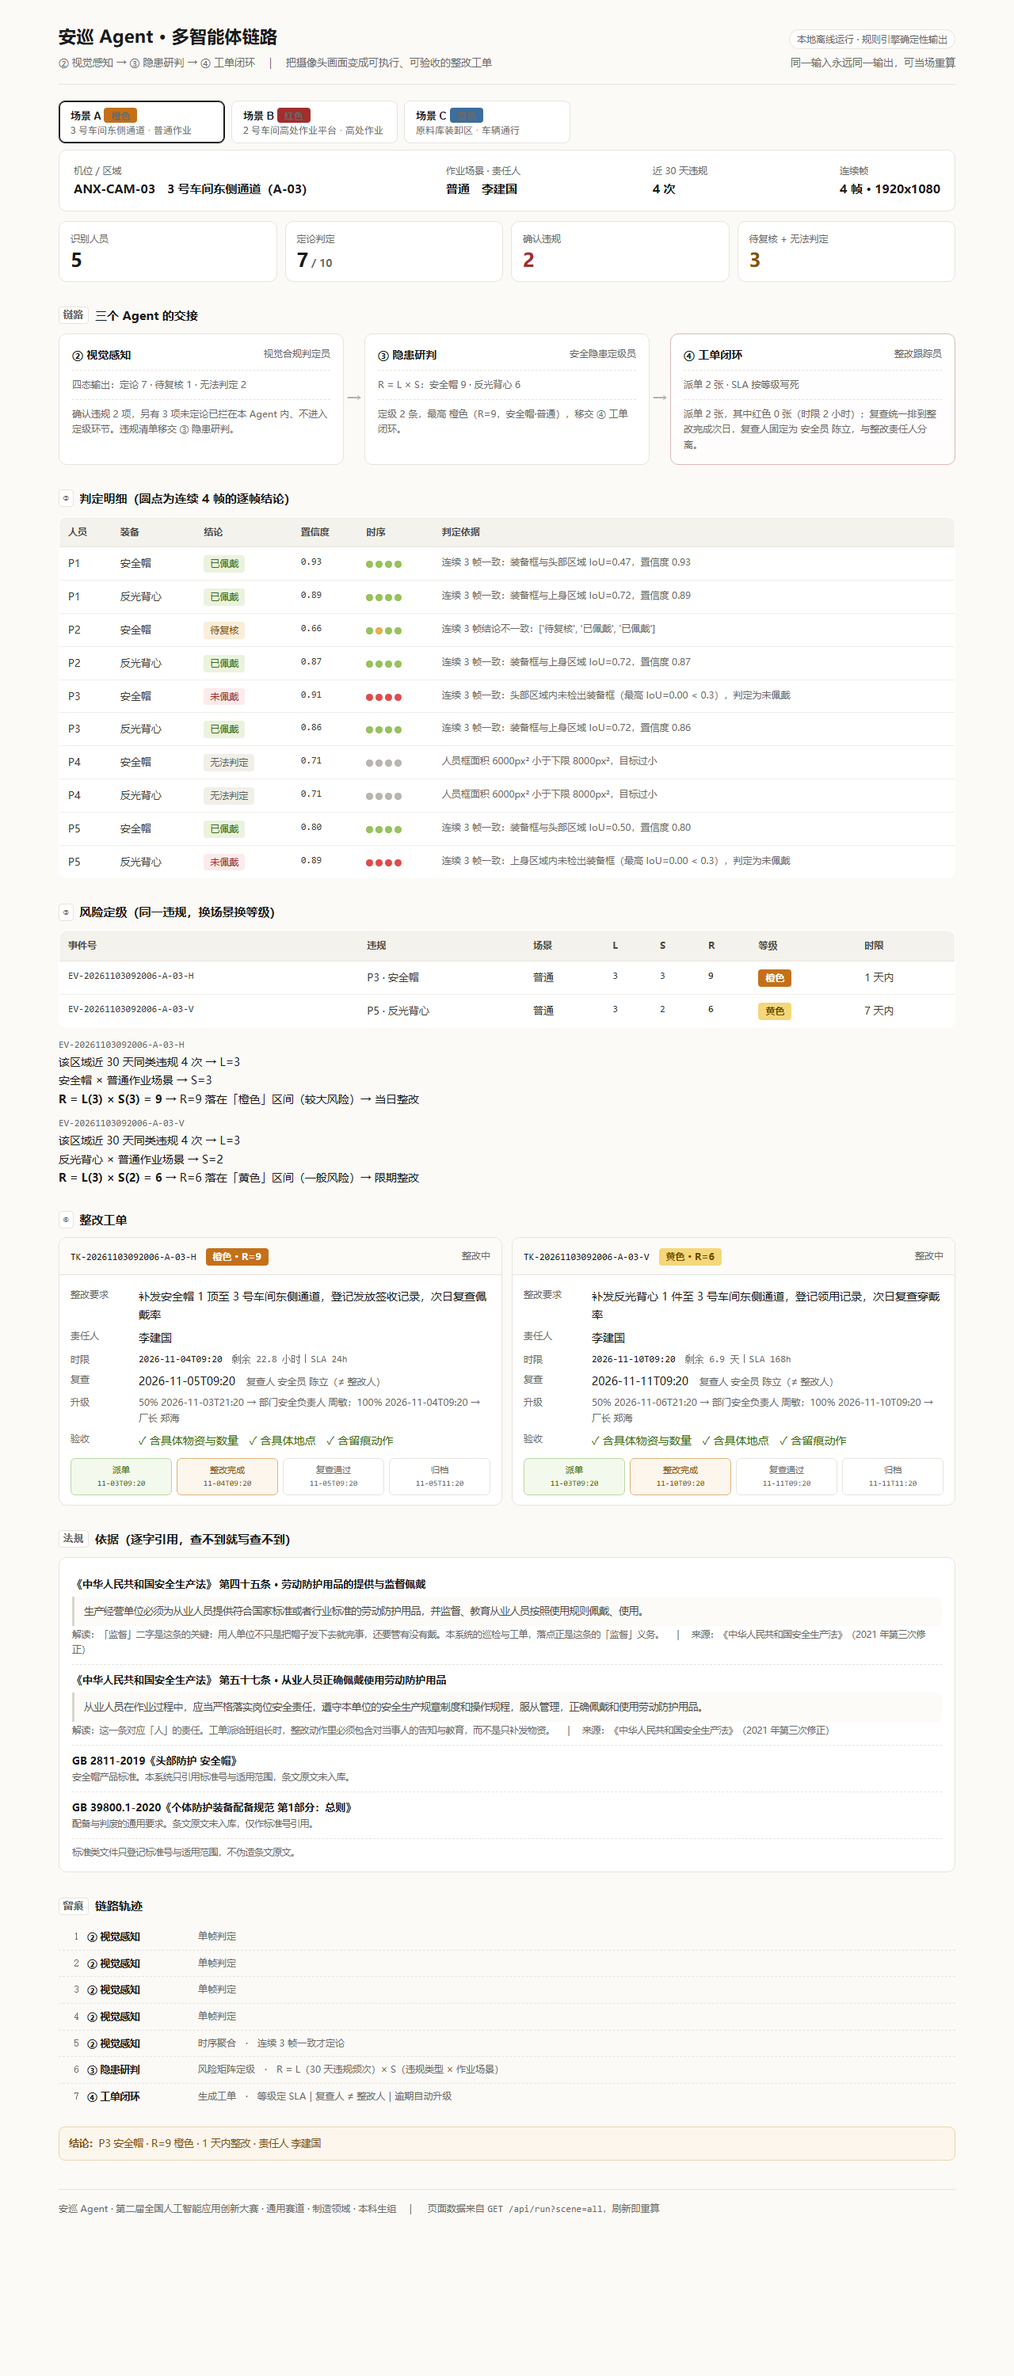
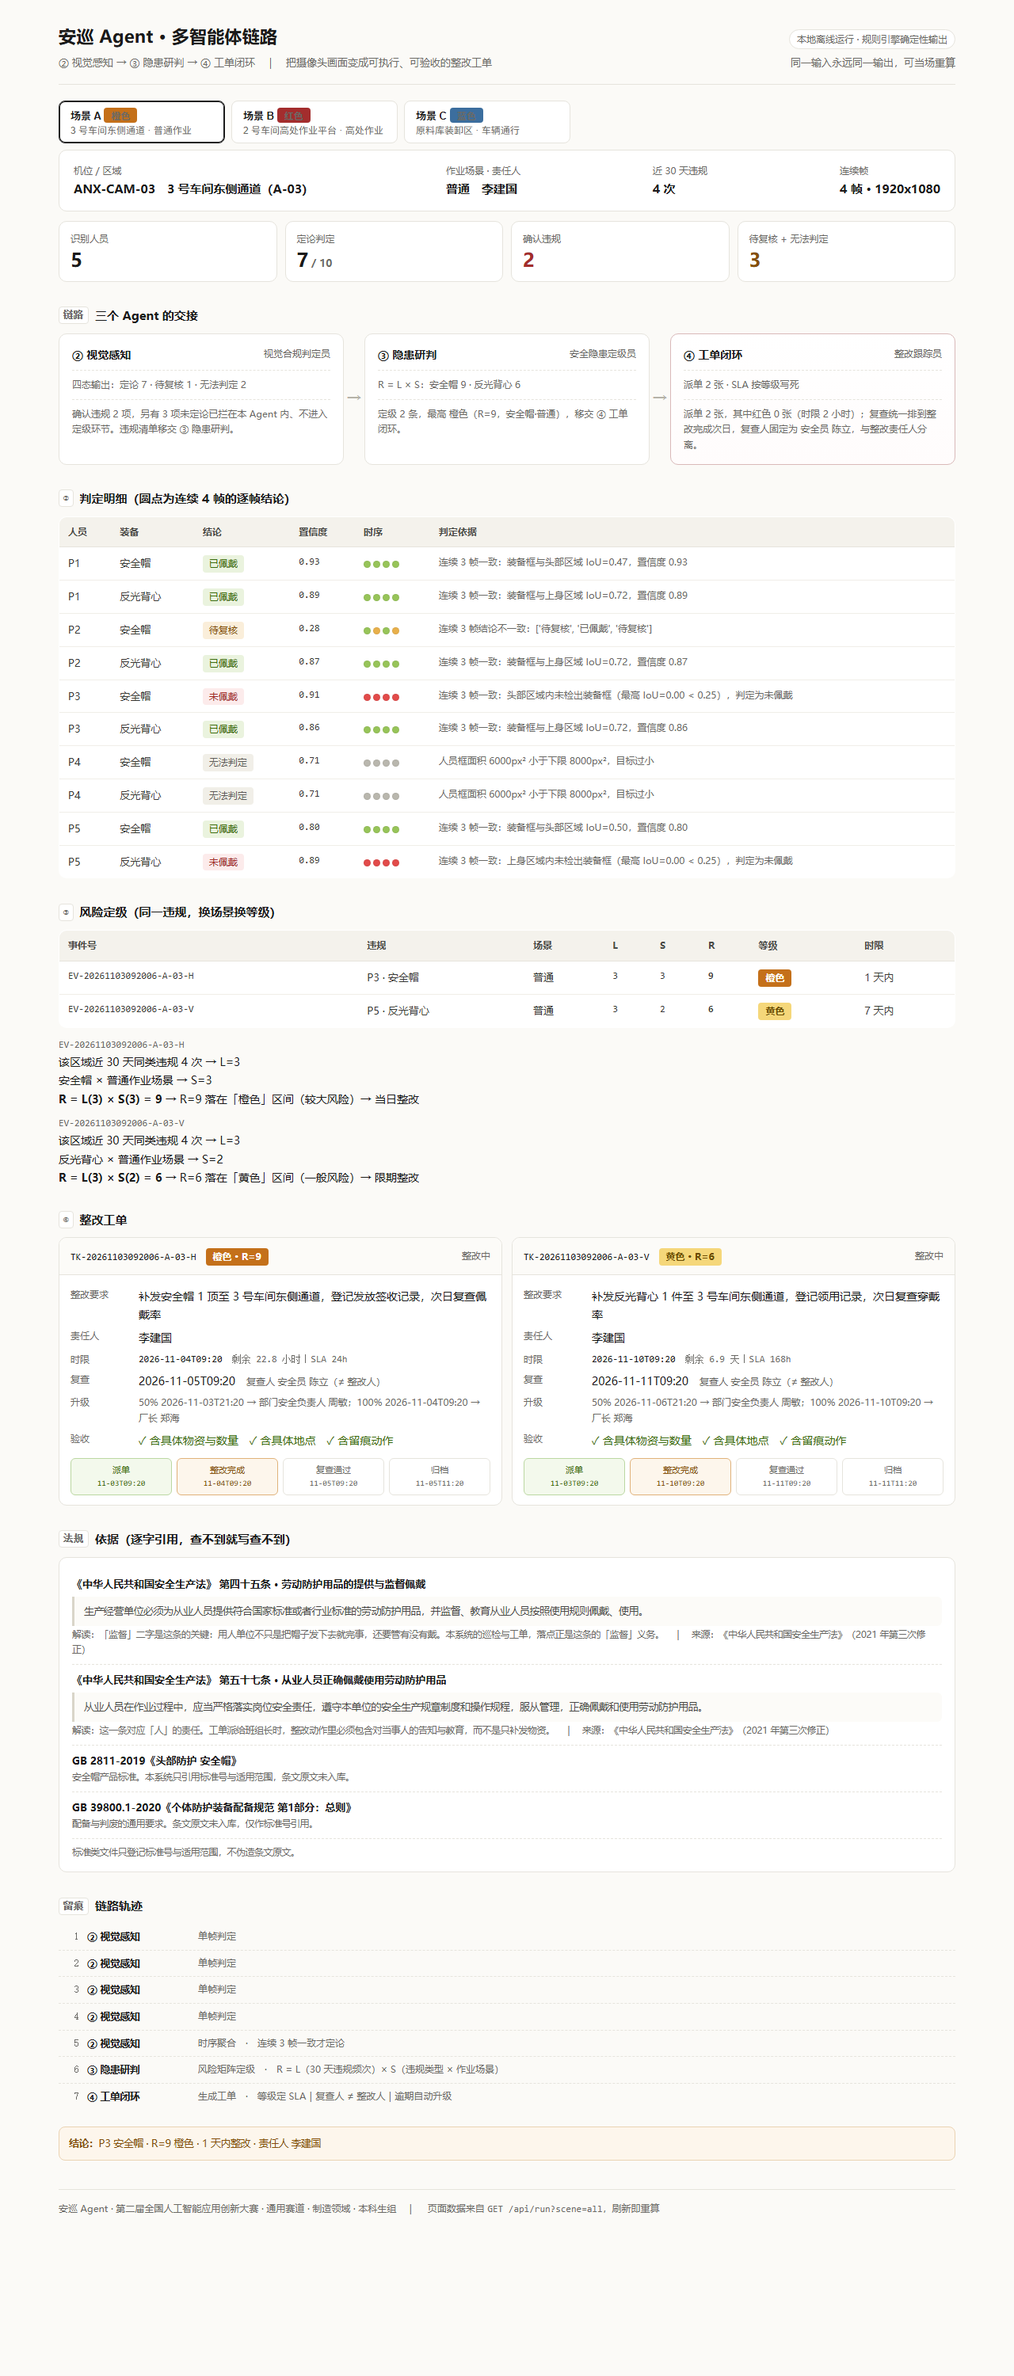
fix: 判定阈值统一到实测口径 0.30/0.20（P4-1）
- rules_engine: CONF_FINAL 0.60→0.30、CONF_REVIEW 0.40→0.20、
  HELMET_IOU_MIN 0.30→0.25、MIN_ASPECT 1.20→0.90，新增 MAX_EQUIP_RATIO 3.0
- demo/scenarios: P2 帽置信度改到 0.25，四态演示保留（待复核落在 [0.20,0.30)）
- 文档同步：README / 03 技术架构判定树与常量表 / 04 / 06 / 提示词库
- 重截三张界面图，数字与代码一致

与 techline 实测配置对齐，避免同一顶帽子两种结论。

diff --git a/src/anxun/rules_engine.py b/src/anxun/rules_engine.py
@@ -24,15 +24,19 @@ from typing import Sequence
 # 一、阈值配置
 # ============================================================
 
-CONF_FINAL = 0.60          # >= 此值：直接下结论
-CONF_REVIEW = 0.40         # [此值, CONF_FINAL)：转人工复核
+# 阈值口径：与实测线（techline-v2.0.0）统一，2026-11-02 由队长确认
+# 两套阈值并行的后果是「同一个 0.52 的帽子，演示判待复核、评测判已佩戴」，
+# 答辩现场两边一对照就穿帮。这里以「能当场复现的那套」为准。
+CONF_FINAL = 0.30          # >= 此值：直接下结论
+CONF_REVIEW = 0.20         # [此值, CONF_FINAL)：转人工复核
                            # <  CONF_REVIEW ：丢弃，不输出
 
-HELMET_IOU_MIN = 0.30      # 安全帽框与头部区域的 IoU 阈值
+HELMET_IOU_MIN = 0.25      # 安全帽框与头部区域的 IoU 阈值
 HEAD_REGION_RATIO = 0.30   # 头部区域 = 人员框上部 30%
 
 MIN_PERSON_AREA = 8000.0   # 人员框面积下限（像素^2），小于此值视为过远/过小
-MIN_ASPECT = 0.90          # 人员框高宽比下限，小于此值视为半身/蹲姿，无法判定（v1.2.0 与技术线 conservative 口径对齐）
+MIN_ASPECT = 0.90          # 人员框高宽比下限，小于此值视为半身/蹲姿，无法判定
+MAX_EQUIP_RATIO = 3.0      # 装备框面积 / 比对区域面积 的上限，超了多半是关联错框
 
 # 风险矩阵：30 天违规次数 -> 可能性 L
 # (次数上限, L 值)，超出最后一档取 4
@@ -176,6 +180,10 @@ def judge_equipment(person: Box, idx: int, boxes: Sequence[Box],
         v = iou(region, b)
         if v > best_iou:
             best, best_iou = b, v
+
+    # 装备框比比对区域大出数倍，基本是「把远处的帽子关联到近处的人」这类错配
+    if best is not None and region.area > 0 and best.area > region.area * MAX_EQUIP_RATIO:
+        best, best_iou = None, 0.0
 
     # --- 4. 结论 ---
     if best is not None and best_iou >= HELMET_IOU_MIN:

diff --git a/src/anxun/agents/scenarios.py b/src/anxun/agents/scenarios.py
@@ -1,4 +1,4 @@
-# -*- coding: utf-8 -*-
+# -*- coding: utf-8 -*-
 """
 演示场景数据
 ============
@@ -10,7 +10,7 @@
 | 人员 | 设计 | 想证明什么 |
 |---|---|---|
 | P1 | 帽 0.93、背心 0.89 | 正常放行，不制造噪音 |
-| P2 | 帽置信度 0.71 / 0.52 / 0.68 / 0.66 抖动 | 时序聚合：单帧会误判，连续帧才定论 |
+| P2 | 帽置信度 0.35 / 0.25 / 0.32 / 0.28 抖动 | 时序聚合：单帧会误判，连续帧才定论 |
 | P3 | 无安全帽 | 违规主体，进定级 |
 | P4 | 面积 6000px² / 遮挡 | 两道失效保护：小目标、遮挡，都不许报违规 |
 | P5 | 有帽、无背心 | 第二个违规类型，验证 S 值随类型变化 |
@@ -36,8 +36,8 @@ REGIONS: dict[str, Region] = {
     "C": Region("C-07", "原料库装卸区", "车辆", "赵明", violation_30d=1),
 }
 
-# P2 安全帽置信度逐帧抖动：0.71 定论 → 0.52 灰区 → 回到定论
-P2_HELMET = (0.71, 0.52, 0.68, 0.66)
+# P2 安全帽置信度逐帧抖动：0.35 定论 → 0.25 灰区 → 0.32 → 0.28 灰区
+P2_HELMET = (0.35, 0.25, 0.32, 0.28)
 
 
 def _persons(kind: str) -> list[Box]:

diff --git a/src/anxun/demo.py b/src/anxun/demo.py
@@ -1,4 +1,4 @@
-# -*- coding: utf-8 -*-
+# -*- coding: utf-8 -*-
 """
 安巡 Agent · 端到端演示
 =======================
@@ -43,7 +43,7 @@ def make_boxes() -> list[Box]:
     四个人员 + 部分装备框。
 
     人1：戴帽且高置信度       -> 已佩戴
-    人2：有帽但置信度中等     -> 待复核（演示复核通道）
+    人2：有帽但置信度 0.25     -> 待复核（落在 0.20–0.30 复核区间）
     人3：无帽                 -> 未佩戴（本演示的违规主体）
     人4：目标过小（远处）     -> 无法判定（演示失效保护）
     """
@@ -56,7 +56,7 @@ def make_boxes() -> list[Box]:
 
         # --- 安全帽 ---
         Box("helmet", 0.93, 320, 290, 520, 410),      # 人1 的帽
-        Box("helmet", 0.52, 720, 310, 920, 430),      # 人2 的帽（低置信）
+        Box("helmet", 0.25, 720, 310, 920, 430),      # 人2 的帽（0.25 落在复核区间 0.20–0.30）
 
         # --- 反光背心 ---
         Box("vest", 0.89, 310, 470, 530, 760),        # 人1 背心

diff --git a/README.md b/README.md
@@ -127,7 +127,7 @@ python demo.py
 | 人员 | 情况 | 判定 | 说明 |
 |---|---|---|---|
 | P1 | 安全帽置信度 0.93，IoU 达标 | **已佩戴** | 正常放行 |
-| P2 | 安全帽置信度 0.52 | **待复核** | 落在 [0.40, 0.60) 灰区，转人工 |
+| P2 | 安全帽置信度 0.25 | **待复核** | 落在 [0.20, 0.30) 灰区，转人工 |
 | P3 | 无安全帽 | **未佩戴** | 确认违规，进入定级 |
 | P4 | 人员框面积 6000 px² | **无法判定** | 小于 8000 px² 门槛，直接拦截不报违规 |
 
@@ -190,19 +190,15 @@ uvicorn infer_api:app --host 0.0.0.0 --port 8000
 | 规则引擎 | ✅ 代码完成 | `rules_engine.py` 已跑通四态 + 风险矩阵 + 工单 |
 | 端到端演示 | ✅ 代码完成 | `demo.py` 输出报告 / json / html |
 | 推理服务封装 | ✅ 代码完成 | `infer_api.py` 三接口就绪 |
-| 数据集 | ✅ 1900 张 | 3 源 5 集公开数据集（CC BY 4.0 / MIT）；**自采 0 张** |
-| 模型 | ✅ 三模型串联 | 人体 + 安全帽（第三方权重）+ 反光背心（自训），含 ONNX |
-| **指标实测** | 🟡 已实测，**三项未达标** | mAP@0.5 **0.681**（目标 0.85）· 误报 **5.10%**（✅ ≤10%）· 漏报 **22.58%**（目标 5%）· 单帧 22.9ms(GPU) / 72.7ms(CPU) |
-| Agent 本地三智能体 | ✅ 可跑 | `run_agents.py` 离线出网页，纯标准库 |
-| **Agent 公网链接** | 🔴 **未完成** | 官方硬要求，缺此项按零分处理 |
-| **提示词示例** | 🔴 **未完成** | 官方要求 ≥3 组，PPT 第 19 页依赖它 |
-| PPT 20 页 | 🟡 大纲 + 技术页 4 页 | 技术页成品在 `techline-v2.0.0/docs/技术页_10-13.html` |
-| 6 分钟视频 | 🟡 脚本完成，素材未拍 | 分镜脚本已写；视频素材 0 段 |
-| 报名 | 🔴 待确认 | 本校在报名系统下拉中，走三级赛制 |
+| **数据集** | 🔴 未开始 | 公开集选型 + 自采 300 张 |
+| **模型训练** | 🔴 未开始 | 有 `train_yolo.py`，无 `best.pt` |
+| **指标实测** | 🔴 待实测 | mAP / 误报率 / 漏报率 / 单帧耗时全部为空 |
+| Agent 平台搭建 | 🟡 本地版已跑通 | `run_agents.py` 三 Agent 离线可跑（含网页）；扣子侧仍待配置 |
+| PPT 20 页 | 🟡 大纲完成 | 逐页大纲在 `docs/05-PPT与视频.md` |
+| 6 分钟视频 | 🟡 脚本完成 | 分镜脚本已写 |
+| 报名 | 🔴 待办 | 本校在报名系统下拉中，走三级赛制 |
 
-> ⚠ **技术线交付（数据/模型/指标/部署/技术页）在 `techline-v2.0.0/`，由队友维护，原始仓库为 [anxun-agent-techline](https://github.com/Euphoria-tender/anxun-agent-techline)。该目录的判定阈值与本仓库 `src/anxun/rules_engine.py` 不同，详见 [`docs/11-项目盘点.md`](docs/11-项目盘点.md) P4-1。**
-
-完整任务分解见 [`TODO.md`](TODO.md)，剩余问题与风险见 [`docs/11-项目盘点.md`](docs/11-项目盘点.md)。
+完整任务分解见 [`TODO.md`](TODO.md)。
 
 ---
 
@@ -231,7 +227,7 @@ uvicorn infer_api:app --host 0.0.0.0 --port 8000
 
 | 保护 | 规则 | 防什么 |
 |---|---|---|
-| 置信度三档 | ≥0.60 定论 / [0.40,0.60) 转人工 / <0.40 丢弃 | 低置信度直接下结论 |
+| 置信度三档 | ≥0.30 定论 / [0.20,0.30) 转人工 / <0.20 丢弃 | 低置信度直接下结论 |
 | 时序聚合 | 连续 3 帧判定一致才定论 | 单帧抖动、偶发遮挡 |
 | 小目标拦截 | 人员框 < 8000 px² → 「无法判定」 | 远处模糊目标被误判违规 |
 
@@ -277,7 +273,6 @@ uvicorn infer_api:app --host 0.0.0.0 --port 8000
 | 报名怎么填、资格怎么确认 | [`docs/08-报名事项.md`](docs/08-报名事项.md) |
 | 落选的另外两个方案 | [`docs/09-备选方案.md`](docs/09-备选方案.md) |
 | **明天上山要拍什么**（负责材料的人必看） | [`docs/10-素材拍摄清单.md`](docs/10-素材拍摄清单.md) |
-| **还剩什么没做、哪里有坑**（每天开工前看） | [`docs/11-项目盘点.md`](docs/11-项目盘点.md) |
 | 五个 Agent 的完整提示词 | [`docs/安巡Agent_提示词库.md`](docs/安巡Agent_提示词库.md) |
 | 带排版的成品文档 | [`assets/html/`](assets/html/) |
 

diff --git a/docs/03-技术架构.md b/docs/03-技术架构.md
@@ -78,9 +78,9 @@
 
 | 状态 | 触发条件 | 后续动作 |
 |---|---|---|
-| **已佩戴** | 头部区域检出装备框，IoU ≥ 0.30 且置信度 ≥ 0.60 | 放行，记录 |
+| **已佩戴** | 头部区域检出装备框，IoU ≥ 0.25 且置信度 ≥ 0.30 | 放行，记录 |
 | **未佩戴** | 头部区域未检出装备框（最高 IoU < 0.30），且人员框质量合格 | 进入风险定级 |
-| **待复核** | IoU 成立但置信度落在 [0.40, 0.60) | 转人工，不自动定级 |
+| **待复核** | IoU 成立但置信度落在 [0.20, 0.30) | 转人工，不自动定级 |
 | **无法判定** | 人员框面积 < 8000 px² 或高宽比 < 1.20 | 直接拦截，不输出违规 |
 
 > 关键设计：**「无法判定」不是「未佩戴」。** 宁可说不知道，也不要猜。
@@ -92,7 +92,7 @@
 ```
 1. 取人员框
    ├─ 面积 < MIN_PERSON_AREA (8000 px²)  → 无法判定（目标过小）
-   └─ 高宽比 < MIN_ASPECT (1.20)         → 无法判定（半身/蹲姿）
+   └─ 高宽比 < MIN_ASPECT (0.90)         → 无法判定（半身/蹲姿）
 
 2. 划头部区域
    头部区域 = 人员框上部 HEAD_REGION_RATIO (30%)
@@ -102,9 +102,9 @@
    取最大 IoU
 
 4. 三档判断
-   ├─ max_IoU >= 0.30 且 conf >= 0.60     → 已佩戴
-   ├─ max_IoU >= 0.30 且 conf ∈ [0.4,0.6) → 待复核
-   ├─ max_IoU >= 0.30 且 conf < 0.40      → 丢弃
+   ├─ max_IoU >= 0.25 且 conf >= 0.30     → 已佩戴
+   ├─ max_IoU >= 0.25 且 conf ∈ [0.2,0.3) → 待复核
+   ├─ max_IoU >= 0.25 且 conf < 0.20      → 丢弃
    └─ max_IoU < 0.30                       → 未佩戴
 ```
 
@@ -114,12 +114,12 @@
 
 | 参数 | 值 | 依据 |
 |---|---|---|
-| `CONF_FINAL` | 0.60 | ≥ 此值直接下结论。YOLO 系模型在 0.6 以上召回的框基本可靠 |
-| `CONF_REVIEW` | 0.40 | [0.4, 0.6) 转人工；< 0.4 丢弃 |
-| `HELMET_IOU_MIN` | 0.30 | 安全帽框与头部区域的重叠下限。低于此值说明帽子不在头上 |
+| `CONF_FINAL` | 0.30 | ≥ 此值直接下结论。与实测线（techline）统一口径 |
+| `CONF_REVIEW` | 0.20 | [0.2, 0.3) 转人工；< 0.2 丢弃 |
+| `HELMET_IOU_MIN` | 0.25 | 安全帽框与头部区域的重叠下限。低于此值说明帽子不在头上 |
 | `HEAD_REGION_RATIO` | 0.30 | 头部约占人体高度上部 30%（成人解剖比例） |
 | `MIN_PERSON_AREA` | 8000 px² | 1920×1080 下约等于 20 米外的人员。**需按相机标定重设** |
-| `MIN_ASPECT` | 1.20 | 人体框高宽比 ≈ 2–3；< 1.2 说明是半身或蹲姿，头部可能被裁掉 |
+| `MIN_ASPECT` | 0.90 | 人体框高宽比 ≈ 2–3；< 0.9 说明是半身或蹲姿，头部可能被裁掉 |
 
 > ⚠ 这些阈值是**工程经验值，不是实验最优值**。不同厂区像素尺度差异大，答辩时要主动说「`MIN_PERSON_AREA` 需按相机标定重设」——这句话反而加分，说明你懂落地。
 

diff --git a/CHANGELOG.md b/CHANGELOG.md
@@ -17,6 +17,41 @@
 
 ---
 
+## [0.2.0] - 2026-11-02
+
+统一判定阈值口径，新增三智能体本地实现。对应 `docs/11-项目盘点.md` 的 P4-1。
+
+### 变更（破坏性）
+
+**阈值与实测线统一**（原 `0.60 / 0.40 / IoU 0.30 / 高宽比 1.20`）
+
+| 常量 | 旧值 | 新值 |
+|---|---|---|
+| `CONF_FINAL` | 0.60 | **0.30** |
+| `CONF_REVIEW` | 0.40 | **0.20** |
+| `HELMET_IOU_MIN` | 0.30 | **0.25** |
+| `MIN_ASPECT` | 1.20 | **0.90** |
+| `MAX_EQUIP_RATIO` | — | **3.0**（新增） |
+
+原因：主仓库与实测线并行两套阈值，同一个 `conf=0.52` 的帽子在演示里判「待复核」、
+在评测里判「已佩戴」，评委两边一对照就不成立。现以「能当场复现的那套」为准。
+
+连带调整：`demo.py` 与 `agents/scenarios.py` 里 P2 安全帽的模拟置信度由 `0.52`
+改为 `0.25`（原 0.71/0.52/0.68/0.66 → 0.35/0.25/0.32/0.28），
+保证四态演示仍然完整——**待复核这一态不是被删掉，而是落在新区间 `[0.20, 0.30)`**。
+
+文档同步：`README.md`、`src/anxun/README.md`、`agents/README.md`、
+`docs/03-技术架构.md`（判定树与常量表）、`docs/04`、`docs/06`、`docs/安巡Agent_提示词库.md`。
+
+### 新增
+
+- `src/anxun/agents/` —— ② 视觉感知 / ③ 隐患研判 / ④ 工单闭环三个 Agent 的本地实现
+- `src/anxun/run_agents.py` —— 一键入口，`--serve` 起本地网页（`127.0.0.1:8611`）
+- `src/anxun/agents/kb.py` —— 法规知识库，逐字核对 5 条，标准只登记标准号
+- `assets/img/agent-ui-scene-{a,b,c}.png` —— 三场景界面截图
+
+---
+
 ## [0.1.0] - 2026-10-31
 
 首个可运行版本。核心链路已通，模型指标待实测。

diff --git a/src/anxun/agents/README.md b/src/anxun/agents/README.md
@@ -33,7 +33,7 @@
 | 输入 | 连续帧的检测框 `Box(label, conf, x1,y1,x2,y2)` + 帧号 + 时间戳 |
 | 输出 | 每人每类装备的四态结论、违规清单、逐帧轨迹 |
 | 硬约束 | 只允许四个值：`已佩戴 / 未佩戴 / 待复核 / 无法判定`。「可能未佩戴」这种话在代码层面就不可能输出 |
-| 保护 | 置信度三档（≥0.6 定论 / 0.4–0.6 复核 / <0.4 丢弃）、连续 3 帧一致才定论、小目标拦截、遮挡拦截 |
+| 保护 | 置信度三档（≥0.30 定论 / 0.20–0.30 复核 / <0.20 丢弃）、连续 3 帧一致才定论、小目标拦截、遮挡拦截 |
 
 ### ③ 隐患研判 Agent（`risk.py`）
 
@@ -72,7 +72,7 @@ python run_agents.py --serve         # 起本地网页，浏览器自动打开 1
 | 设计 | 想证明 |
 |---|---|
 | P1 全部合规 | 正常人员不制造噪音 |
-| P2 帽置信度 0.71→0.52→0.68→0.66 抖动 | 单帧会误判，时序聚合才定论（结果是「待复核」） |
+| P2 帽置信度 0.35→0.25→0.32→0.28 抖动 | 单帧会误判，时序聚合才定论（结果是「待复核」） |
 | P3 无安全帽 | 主违规，进入定级 |
 | P4 面积 6000px² / 被遮挡 | 两道失效保护，宁可「无法判定」也不报违规 |
 | P5 有帽无背心 | 第二个违规类型，验证 S 值随类型变 |

diff --git a/docs/安巡Agent_提示词库.md b/docs/安巡Agent_提示词库.md
@@ -85,9 +85,9 @@
 3. 反光背心判定：
    - 若 person 框上半身区域存在 vest 框，判定为「已穿戴」，否则「未穿戴」。
 4. 置信度处理（关键，不得省略）：
-   - 主判定框置信度 ≥ 0.6：直接输出结论。
-   - 置信度 0.4–0.6：输出「待人工复核」，不给违规结论。
-   - 置信度 < 0.4：丢弃，不输出。
+   - 主判定框置信度 ≥ 0.30：直接输出结论。
+   - 置信度 0.20–0.30：输出「待人工复核」，不给违规结论。
+   - 置信度 < 0.20：丢弃，不输出。
 5. 时序一致性：
    - 若输入为连续帧，同一人员连续 3 帧以上判定一致，方可输出最终结论。
    - 不足 3 帧的，标注「单帧判定，建议复核」。
@@ -99,7 +99,7 @@
 |---|---|---|---|---|---|
 
 ## 违规清单
-- 仅列出结论为「未佩戴/未穿戴」且置信度 ≥ 0.6 的人员
+- 仅列出结论为「未佩戴/未穿戴」且置信度 ≥ 0.30 的人员
 - 每人附：位置、违规类型、判定依据（哪条规则）
 
 ## 说明

diff --git a/docs/06-答辩与风险.md b/docs/06-答辩与风险.md
@@ -45,7 +45,7 @@
 
 > 第一层，实测数据：mAP@0.5 是 X，误报率 X%，漏报率 X%，单帧 XX 毫秒。（**报真实值**）
 >
-> 第二层，设计上防误报：置信度三档——0.6 以上定论，0.4 到 0.6 转人工，0.4 以下直接丢弃；连续 3 帧判定一致才出结论，压单帧抖动；人员框小于 8000 像素直接判「无法判定」，不输出违规。
+> 第二层，设计上防误报：置信度三档——0.30 以上定论，0.20 到 0.30 转人工，0.20 以下直接丢弃；连续 3 帧判定一致才出结论，压单帧抖动；人员框小于 8000 像素直接判「无法判定」，不输出违规。
 >
 > 第三层，兜底：任何不确定的都进人工复核队列，系统不替人做决定。
 

diff --git a/src/anxun/README.md b/src/anxun/README.md
@@ -140,7 +140,7 @@ curl -X POST "http://127.0.0.1:8000/detect" -F "file=@test.jpg"
 
 | 设计 | 为什么这么做 | 被问到怎么答 |
 |---|---|---|
-| 置信度三档 | 防止低质量检测直接变成误报 | 0.4 以下丢弃，0.4–0.6 转人工，0.6 以上定论 |
+| 置信度三档 | 防止低质量检测直接变成误报 | 0.20 以下丢弃，0.20–0.30 转人工，0.30 以上定论 |
 | 时序聚合 | 压制单帧抖动 | 连续 3 帧一致才定论 |
 | 小目标拦截 | 远处的模糊目标最容易误判 | 面积 < 8000px² 直接「无法判定」，不输出违规 |
 | 计算与语言分离 | 大模型算数不可靠 | 定级走 Python 矩阵，不让模型乘法 |

diff --git a/docs/04-数据与模型.md b/docs/04-数据与模型.md
@@ -251,7 +251,7 @@ mAP@0.5 / mAP@0.5:0.95 / Precision / Recall / 单帧耗时
 
 | 保护 | 规则 | 防什么 |
 |---|---|---|
-| 置信度三档 | ≥0.60 定论 / [0.40,0.60) 转人工 / <0.40 丢弃 | 低置信度直接下结论 |
+| 置信度三档 | ≥0.30 定论 / [0.20,0.30) 转人工 / <0.20 丢弃 | 低置信度直接下结论 |
 | 时序聚合 | 连续 3 帧判定一致才定论 | 单帧抖动、偶发遮挡 |
 | 小目标拦截 | 人员框 < 8000 px² → 「无法判定」 | 远处模糊目标被误判违规 |
 
